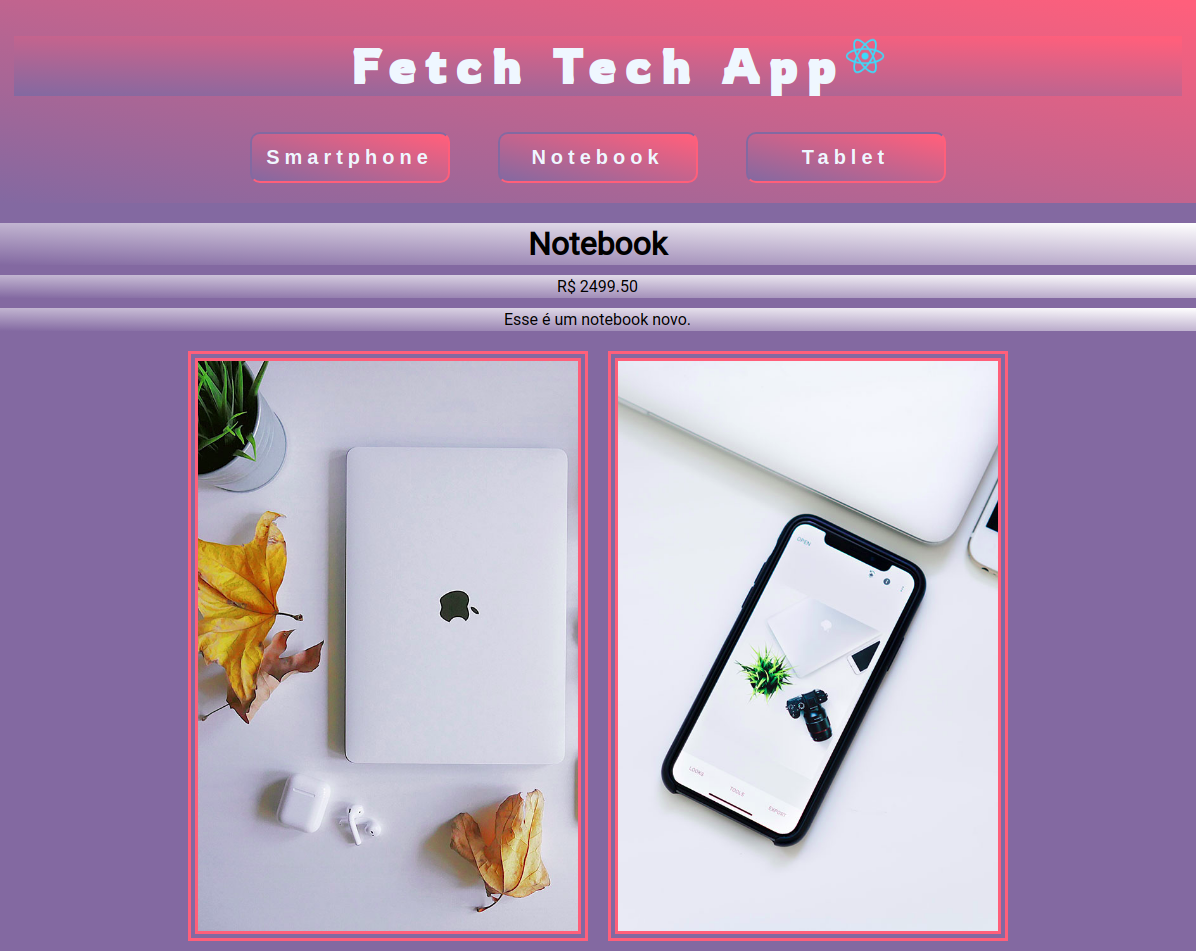
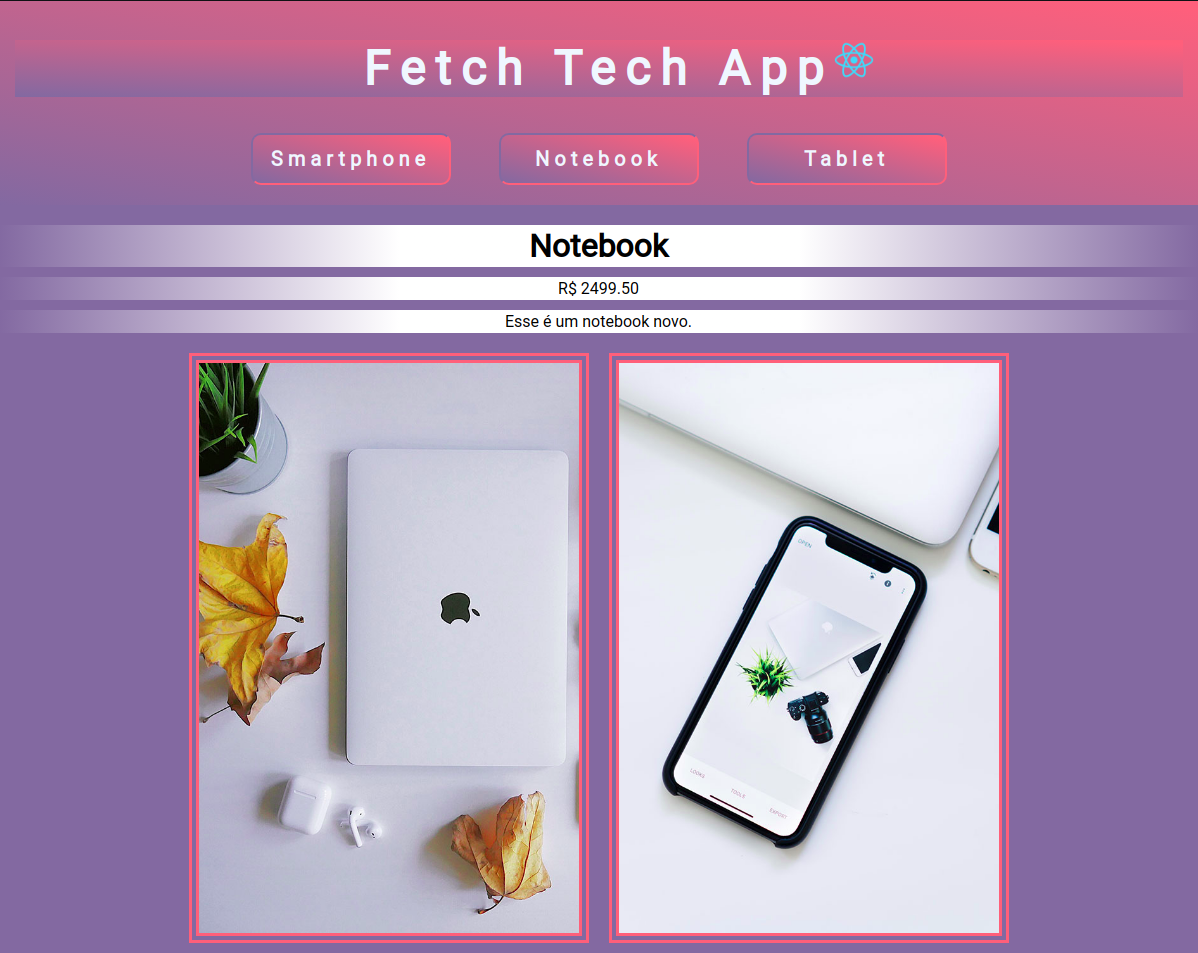
fix: removed unused css classes

diff --git a/src/App.css b/src/App.css
@@ -1,28 +1,14 @@
 *
 {
+  font-family: 'Roboto', sans-serif;
   box-sizing: border-box;
 }
-
-body {
-  margin: 0;
-  padding: 0;
-  font-family: 'Roboto', sans-serif;
-  -webkit-font-smoothing: antialiased;
-  -moz-osx-font-smoothing: grayscale;
-}
-
-code {
-  font-family: source-code-pro, Menlo, Monaco, Consolas, 'Courier New',
-    monospace;
-}
-
 .app-container
 {
   background-color: #7C79A2;
   height: 100vh;
   max-width: 1200px;
   margin: auto;
-  /* border: 1px solid blue; */
 }
 
 .app-header
@@ -96,7 +82,7 @@ code {
 {
   margin: 10px 0px;
   padding: 2px 0px;
-  background-image: linear-gradient(to top right, #7C79A2,#fff);
+  background: linear-gradient(to left, #7C79A2, #fff, #fff, #7C79A2);
 }
 
 .app-section-img-wrapper
